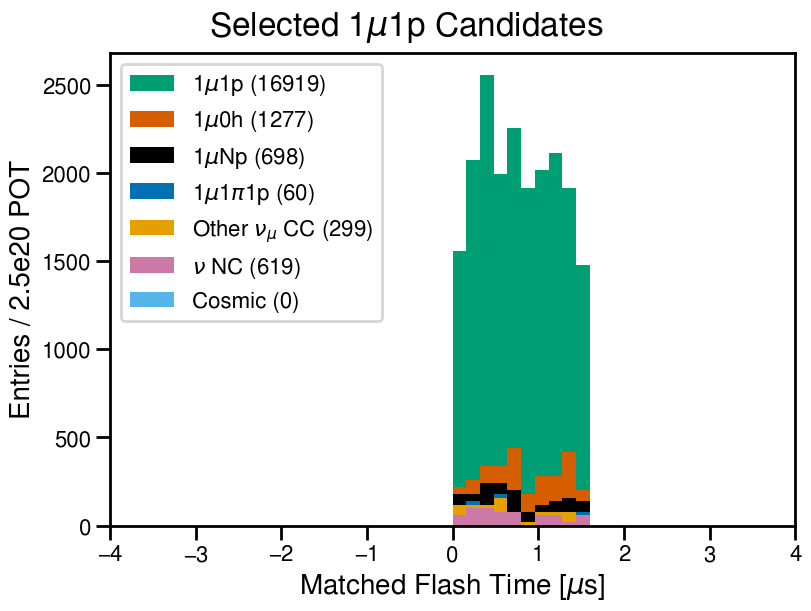
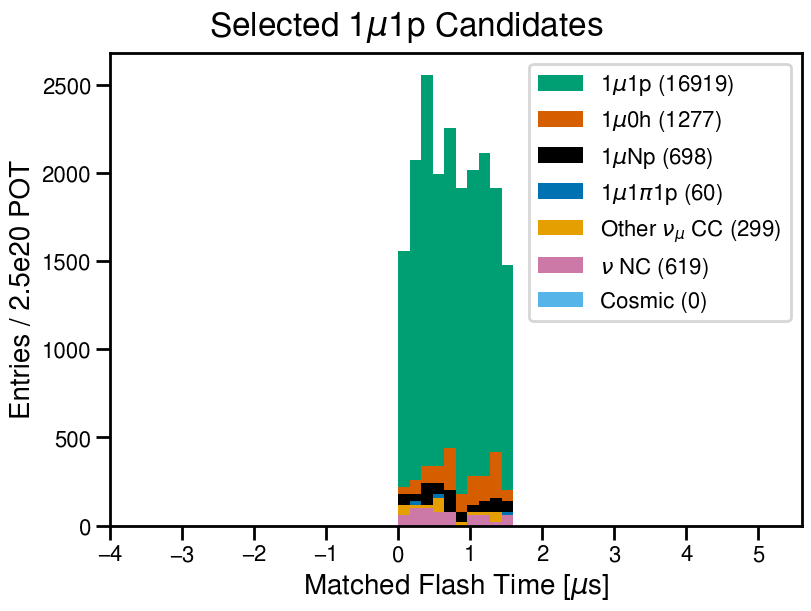
Added flash time distribution with no cut and changed range of flash time

diff --git a/analysis.C b/analysis.C
@@ -19,7 +19,7 @@ using namespace ana;
 */
 void analysis()
 {
-    SpecContainer spectra("/exp/icarus/data/users/mueller/mlcafs/bnb_nucosmics.flat.root", "spectra.root", 1.253e19, 2.5e20);
+    SpecContainer spectra("/pnfs/icarus/scratch/users/mueller/bnb_nucosmics_v5.flat.root", "spectra.root", 1.253e19, 2.5e20);
     //SpecContainer spectra("/exp/icarus/data/users/mueller/mlcafs/bnb_intime.flat.root", "spectra.root", 9070*2.05e14, 2.5e20);
     //SpecContainer spectra("/exp/icarus/data/users/mueller/mlcafs/mpv_mpr.flat.root", "spectra.root", 1e19, 2.5e20);
 
@@ -96,12 +96,13 @@ void analysis()
     /**
      * Spectra (2D) for (stacked) reconstructed quantities.
     */
+    spectra.add_spectrum2d("sFlashTimePTT_NoCut", Binning::Simple(10, 0, 10), Binning::Simple(60, -4, 5.6), kCategoryTopologyPTT_NoCut, kFlashTimePTT_NoCut);
     spectra.add_spectrum2d("sVisibleEnergyPTT_Topology_All1mu1pCut", Binning::Simple(10, 0, 10), Binning::Simple(20, 0, 3000), kCategoryTopologyPTT_All1mu1pCut, kVisibleEnergyPTT_All1mu1pCut);
     spectra.add_spectrum2d("sVisibleEnergyPTT_InteractionMode_All1mu1pCut", Binning::Simple(10, 0, 10), Binning::Simple(20, 0, 3000), kCategoryInteractionModePTT_All1mu1pCut, kVisibleEnergyPTT_All1mu1pCut);
-    spectra.add_spectrum2d("sFlashTimePTT_Topology_All1mu1pCut", Binning::Simple(10, 0, 10), Binning::Simple(50, -4, 4), kCategoryTopologyPTT_All1mu1pCut, kFlashTimePTT_All1mu1pCut);
+    spectra.add_spectrum2d("sFlashTimePTT_Topology_All1mu1pCut", Binning::Simple(10, 0, 10), Binning::Simple(60, -4, 5.6), kCategoryTopologyPTT_All1mu1pCut, kFlashTimePTT_All1mu1pCut);
     spectra.add_spectrum2d("sVisibleEnergyPTT_Topology_All1muNpCut", Binning::Simple(10, 0, 10), Binning::Simple(20, 0, 3000), kCategoryTopologyPTT_All1muNpCut, kVisibleEnergyPTT_All1muNpCut);
     spectra.add_spectrum2d("sVisibleEnergyPTT_InteractionMode_All1muNpCut", Binning::Simple(10, 0, 10), Binning::Simple(20, 0, 3000), kCategoryInteractionModePTT_All1muNpCut, kVisibleEnergyPTT_All1muNpCut);
-    spectra.add_spectrum2d("sFlashTimePTT_Topology_All1muNpCut", Binning::Simple(10, 0, 10), Binning::Simple(50, -4, 4), kCategoryTopologyPTT_All1muNpCut, kFlashTimePTT_All1muNpCut);
+    spectra.add_spectrum2d("sFlashTimePTT_Topology_All1muNpCut", Binning::Simple(10, 0, 10), Binning::Simple(60, -4, 5.6), kCategoryTopologyPTT_All1muNpCut, kFlashTimePTT_All1muNpCut);
 
     /**
      * Spectra (2D) for particles.
@@ -140,6 +141,6 @@ void analysis()
     /**
      * Dummy spectra for dumping particle-level information to stdout.
     */
-    spectra.add_spectrum1d("sParticleCSV", Binning::Simple(1, 0, 2), kParticleCSV);
+    //spectra.add_spectrum1d("sCSVLogger", Binning::Simple(1, 0, 2), kCSVLogger);
     spectra.run();
 }

diff --git a/include/definitions.h b/include/definitions.h
@@ -324,6 +324,7 @@
     VARDLP_RCAT(kCategoryPTT_FVConTop1muNpCut,vars::category,cuts::fiducial_containment_topological_1muNp_cut); \
     VARDLP_RCAT(kCategoryPTT_All1mu1pCut,vars::category,cuts::all_1mu1p_cut);                                   \
     VARDLP_RCAT(kCategoryPTT_All1muNpCut,vars::category,cuts::all_1muNp_cut);                                   \
+    VARDLP_RCAT(kCategoryTopologyPTT_NoCut,vars::category_topology,cuts::no_cut);                               \
     VARDLP_RCAT(kCategoryTopologyPTT_All1mu1pCut,vars::category_topology,cuts::all_1mu1p_cut);                  \
     VARDLP_RCAT(kCategoryTopologyPTT_All1muNpCut,vars::category_topology,cuts::all_1muNp_cut);                  \
     VARDLP_RCAT(kCategoryInteractionModePTT_All1mu1pCut,vars::category_interaction_mode,cuts::all_1mu1p_cut);   \
